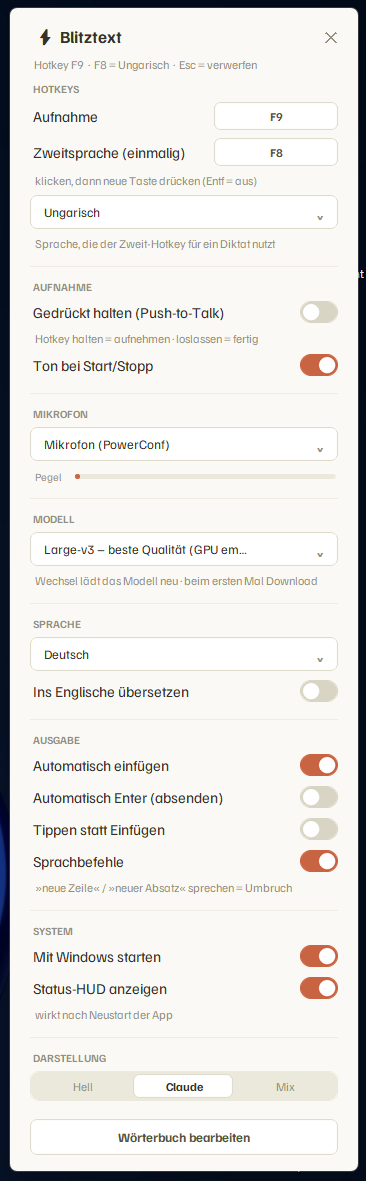
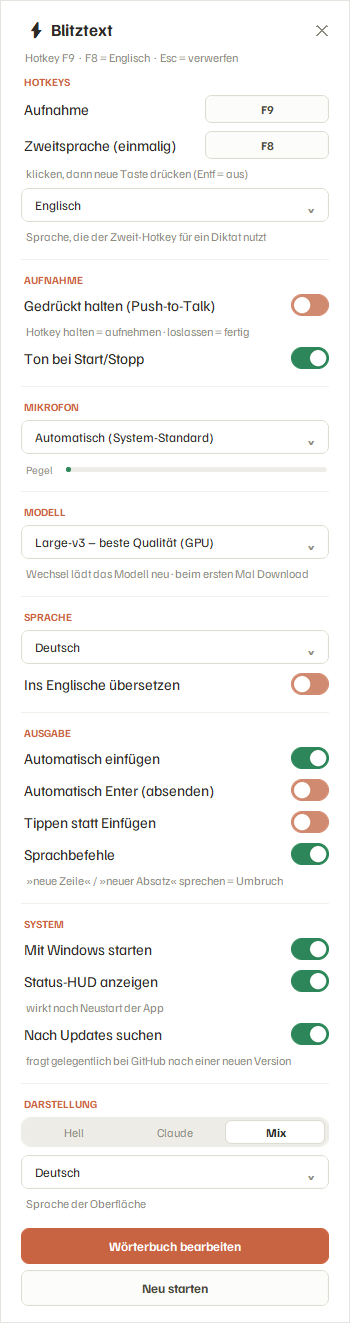
Einstellungen: eigenes Auswahlfenster statt Windows-Menü, Knöpfe unten enger, neuer Screenshot

Changed region(s): [[0.0, 0.0, 1.0, 1.0], [0.8, 0.2134, 0.9429, 0.3353], [0.5143, 0.7316, 0.8, 0.7621]]

diff --git a/settings.py b/settings.py
@@ -342,6 +342,8 @@ def _run(ctx):
             FT = (body, 13, "bold")
 
         root.configure(bg=pal["border"])   # 1px-Rahmen um die Bubble
+        if holder.get("popup_close"):
+            holder["popup_close"]()
         if holder["content"]:
             holder["content"].destroy()
         # Inhalt liegt in einem Canvas, damit das Fenster auf kleinen Bildschirmen
@@ -410,9 +412,6 @@ def _run(ctx):
             c = tk.Canvas(content, height=34, bg=BGC, highlightthickness=0,
                           bd=0, cursor="hand2")
             c.pack(fill="x", padx=20, pady=4)
-            menu = tk.Menu(root, tearoff=0, bg=pal["field_bg"], fg=pal["text"],
-                           activebackground=pal["chip_hot"],
-                           activeforeground="white", bd=0, font=FB)
             def draw(_e=None):
                 c.delete("all")
                 w = c.winfo_width()
@@ -426,25 +425,115 @@ def _run(ctx):
                 c.create_text(14, 17, anchor="w", text=txt, fill=pal["text"], font=FB)
                 c.create_text(w - 14, 17, anchor="e", text="⌄", fill=pal["subtle"],
                               font=(body, 10, "bold"))
-            for opt in options:
-                menu.add_command(label=t(opt), command=lambda o=opt: (on_pick(o), draw()))
-            c.bind("<Button-1>", lambda e: menu.tk_popup(c.winfo_rootx() + 8,
-                                                         c.winfo_rooty() + 36))
+            def open_popup(_e=None):
+                """Eigenes, zum Theme passendes Auswahlfenster (statt des Windows-Menues)."""
+                if holder.get("popup_close"):
+                    holder["popup_close"]()
+                    return
+                ROW, MAXROWS = 34, 7
+                top = tk.Toplevel(root)
+                top.overrideredirect(True)
+                top.attributes("-topmost", True)
+                top.configure(bg=pal["field_border"])          # 1px-Rahmen
+                w = c.winfo_width()
+                rows = min(len(options), MAXROWS)
+                h = rows * ROW + 8
+                x, y = c.winfo_rootx(), c.winfo_rooty() + 38
+                if y + h > root.winfo_screenheight() - 40:       # kein Platz unten -> nach oben
+                    y = c.winfo_rooty() - h - 4
+                top.geometry(f"{w}x{h + 2}+{x}+{y}")
+
+                body_f = tk.Frame(top, bg=pal["field_bg"])
+                body_f.pack(fill="both", expand=True, padx=1, pady=1)
+                cv = tk.Canvas(body_f, bg=pal["field_bg"], highlightthickness=0, bd=0)
+                cv.pack(fill="both", expand=True)
+                lst = tk.Frame(cv, bg=pal["field_bg"])
+                cv.create_window(0, 0, window=lst, anchor="nw", width=w - 2)
+                current = text_get()
+
+                def schliessen(_e=None):
+                    holder["popup_close"] = None
+                    try:
+                        top.grab_release()
+                    except Exception:
+                        pass
+                    try:
+                        top.destroy()
+                    except Exception:
+                        pass
+
+                def waehlen(o):
+                    schliessen()
+                    on_pick(o)
+                    draw()
+
+                for opt in options:
+                    aktiv = (opt == current)
+                    row = tk.Frame(lst, bg=pal["field_bg"], height=ROW, cursor="hand2")
+                    row.pack(fill="x", padx=4, pady=(4 if opt == options[0] else 0, 0))
+                    row.pack_propagate(False)
+                    lab = tk.Label(row, text=t(opt), bg=pal["field_bg"], fg=pal["text"],
+                                   font=(body, 10, "bold" if aktiv else "normal"), anchor="w")
+                    lab.pack(side="left", fill="both", expand=True, padx=(10, 0))
+                    tick = tk.Label(row, text="✓" if aktiv else "", bg=pal["field_bg"],
+                                    fg=pal["chip_hot"], font=(body, 10, "bold"))
+                    tick.pack(side="right", padx=(0, 10))
+                    def hover(on, row=row, lab=lab, tick=tick):
+                        col = pal["seg_bg"] if on else pal["field_bg"]
+                        for wdg in (row, lab, tick):
+                            wdg.configure(bg=col)
+                    for wdg in (row, lab, tick):
+                        wdg.bind("<Enter>", lambda e, hv=hover: hv(True))
+                        wdg.bind("<Leave>", lambda e, hv=hover: hv(False))
+                        wdg.bind("<Button-1>", lambda e, o=opt: waehlen(o))
+
+                lst.update_idletasks()
+                gesamt = lst.winfo_reqheight() + 4
+                cv.configure(scrollregion=(0, 0, w - 2, gesamt))
+                if len(options) > MAXROWS:                      # lange Liste: Mausrad scrollt
+                    def rad(e):
+                        cv.yview_scroll(-1 if e.delta > 0 else 1, "units")
+                    top.bind("<MouseWheel>", rad)
+                    cv.configure(yscrollincrement=ROW)
+                    # aktuelle Auswahl sichtbar machen
+                    if current in options:
+                        idx = options.index(current)
+                        cv.yview_moveto(max(0, (idx - 2) * ROW) / max(gesamt, 1))
+
+                # Klick ausserhalb oder Esc schliesst
+                def klick(e):
+                    if not (top.winfo_rootx() <= e.x_root < top.winfo_rootx() + top.winfo_width()
+                            and top.winfo_rooty() <= e.y_root < top.winfo_rooty() + top.winfo_height()):
+                        schliessen()
+                top.bind("<Button-1>", klick, add="+")
+                top.bind("<Escape>", schliessen)
+                holder["popup_close"] = schliessen
+                _round_corners(top)
+                try:
+                    top.grab_set()
+                    top.focus_force()
+                except Exception:
+                    pass
+            c.bind("<Button-1>", open_popup)
             c.bind("<Configure>", draw)
             draw()
 
-        def pill_button(text, cmd):
+        def pill_button(text, cmd, pady=(14, 16), secondary=False):
             c = tk.Canvas(content, height=36, bg=BGC, highlightthickness=0,
                           bd=0, cursor="hand2")
-            c.pack(fill="x", padx=20, pady=(14, 16))
+            c.pack(fill="x", padx=20, pady=pady)
             def draw(_e=None):
                 c.delete("all")
                 w = c.winfo_width()
                 if w < 10:
                     w = WW - 42
-                c._imgs = [_pill(c, w, 36, 8, pal["btn_bg"], outline=pal["btn_border"])]
+                if secondary:       # zurueckhaltender Zweitknopf: heller Grund, Rahmen
+                    bg, rand, txt = pal["chip_bg"], pal["chip_border"], pal["chip_text"]
+                else:
+                    bg, rand, txt = pal["btn_bg"], pal["btn_border"], pal["btn_text"]
+                c._imgs = [_pill(c, w, 36, 8, bg, outline=rand)]
                 c.create_image(0, 0, anchor="nw", image=c._imgs[0])
-                c.create_text(w / 2, 18, text=t(text), fill=pal["btn_text"],
+                c.create_text(w / 2, 18, text=t(text), fill=txt,
                               font=(body, 10, "bold"))
             c.bind("<Configure>", draw)
             c.bind("<Button-1>", lambda e: cmd())
@@ -682,11 +771,13 @@ def _run(ctx):
             rebuild()
         select_row(lambda: ui_to_label.get(cfg.get("ui_language") or "auto", "Automatisch"),
                    [l for l, _ in UI_LANGS], ui_pick)
-        hint("Oberfläche")
+        hint("Sprache der Oberfläche")
 
-        pill_button("Wörterbuch bearbeiten", lambda: ctx["open_vocab"]())
         if ctx.get("restart"):
-            pill_button("Neu starten", lambda: ctx["restart"]())
+            pill_button("Wörterbuch bearbeiten", lambda: ctx["open_vocab"](), pady=(14, 6))
+            pill_button("Neu starten", lambda: ctx["restart"](), pady=(0, 16), secondary=True)
+        else:
+            pill_button("Wörterbuch bearbeiten", lambda: ctx["open_vocab"]())
 
         # -- Groesse + Position: erstmalig rechts unten (beim Tray), danach
         # bleibt die Unterkante, wo der Nutzer das Fenster hingezogen hat ------

diff --git a/i18n.py b/i18n.py
@@ -64,7 +64,7 @@ EN = {
     "Nach Updates suchen": "Check for updates",
     "fragt gelegentlich bei GitHub nach einer neuen Version": "occasionally asks GitHub for a new version",
     # --- Darstellung
-    "Oberfläche": "Interface language",
+    "Sprache der Oberfläche": "Interface language",
     "Automatisch": "Automatic",
     "Hell": "Light",
     "Wörterbuch bearbeiten": "Edit dictionary",
